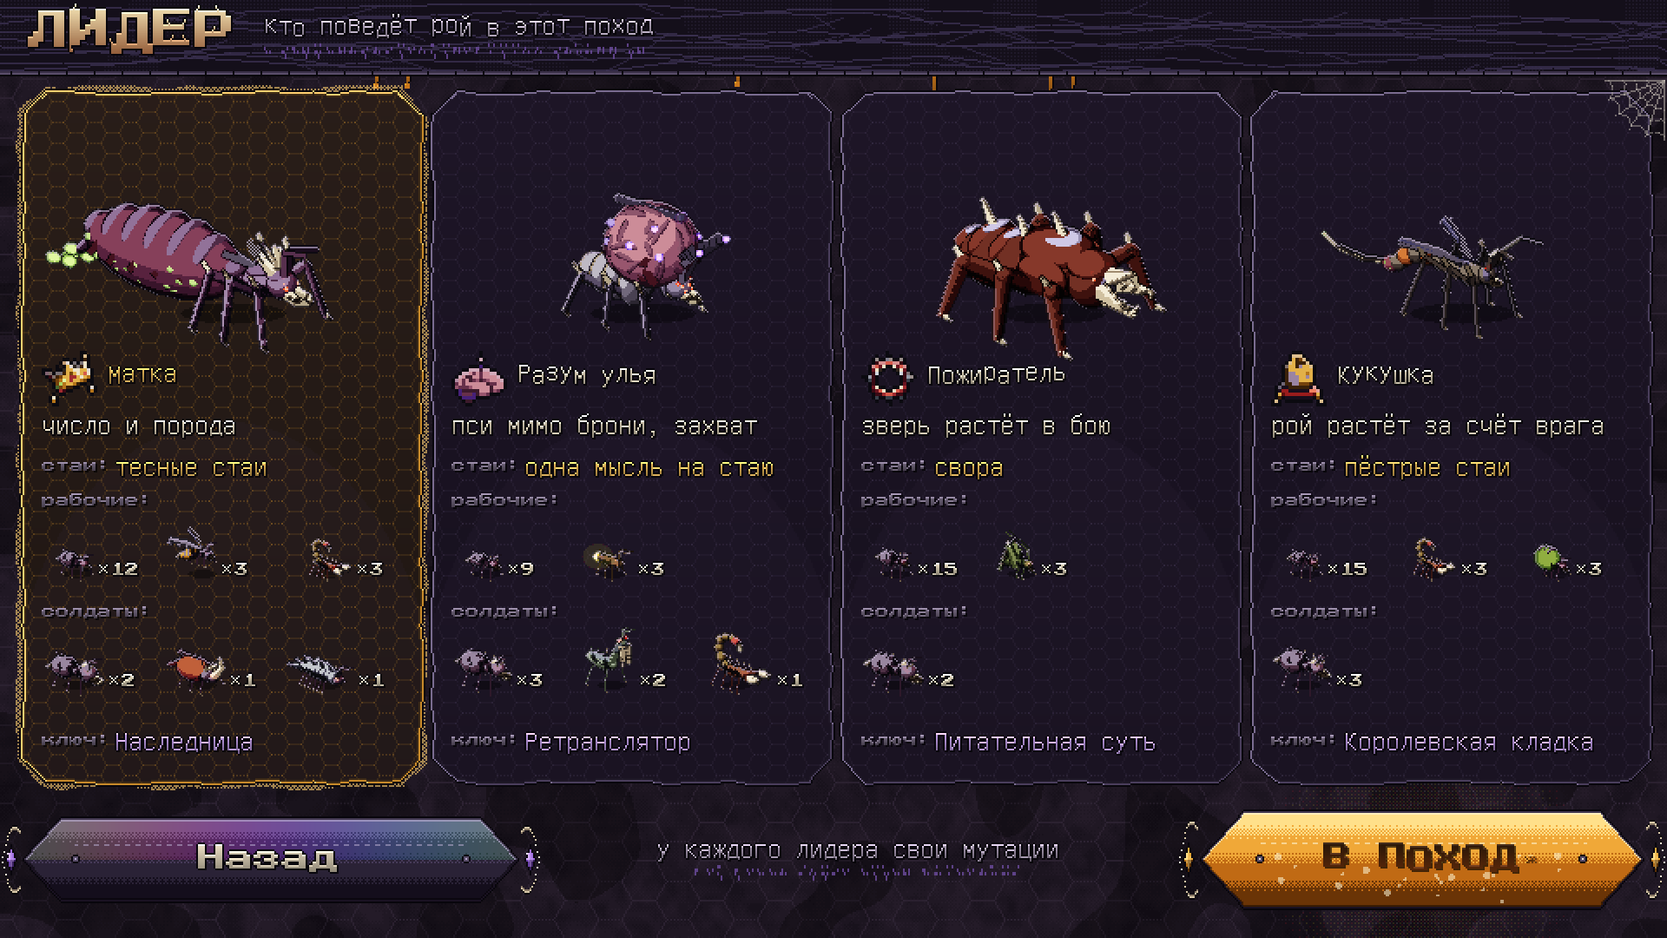
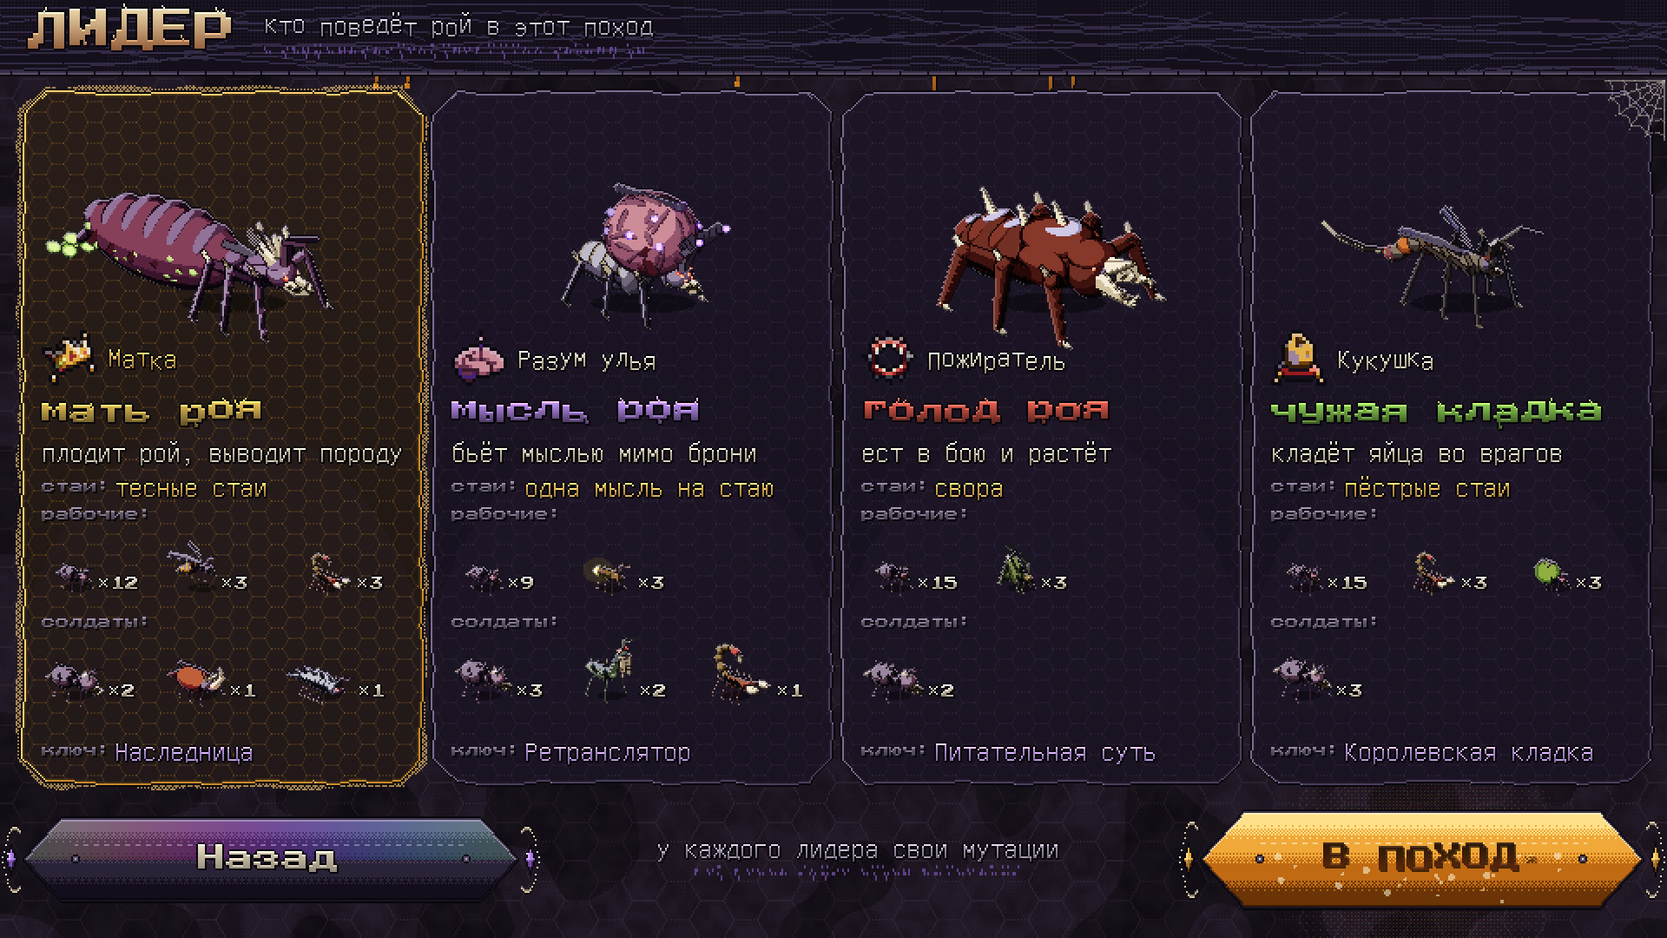
Прозвища лидеров роя стилизованным письмом; карточки Разума, Пожирателя и Кукушки; выбор лидера без сухих формулировок
Claude-Session: https://claude.ai/code/session_01Bh6a99SKMjjKSinDnrtssC

diff --git a/tools/sprites/swarm_hud.py b/tools/sprites/swarm_hud.py
@@ -61,9 +61,31 @@ def put(sc, spr, cx, by, sw=10):
     sc.blit(spr, int(cx - spr.ox), int(by - spr.oy))
 
 
-def title(sc, text, sub, x=16, seed=0):
-    """The screen's name in dripping, bristling letters, a line under it in the swarm's script."""
+EPITHET = {"Матка": ("мать роя", (240, 200, 90)), "Разум улья": ("мысль роя", (196, 150, 255)),
+           "Пожиратель": ("голод роя", (236, 96, 80)), "Кукушка": ("чужая кладка", (150, 220, 90))}
+
+
+def epithet(sc, text, x, y, col, seed=0, px=16, curls=True):
+    """A leader's by-name, written by the swarm itself: pixel letters in the leader's colour, dripping and
+    bristling, a curl of silk at each end."""
+    c2 = tuple(int(v * 0.42) for v in col)
+    w = letters(sc, text, x, y, "title", px, col=col, col2=c2, jitter=1, drips=4, hairs=5, seed=seed)
+    if curls:
+        hx = "#%02x%02x%02x" % tuple(int(v * 0.8) for v in col)
+        UI.silk(sc, (x - 24, y + px // 2 + 2), (x - 6, y + px // 2), sag=-6, col=hx)
+        UI.silk(sc, (x + w + 6, y + px // 2), (x + w + 24, y + px // 2 + 2), sag=-6, col=hx)
+        for cx in (x - 25, x + w + 24):
+            sc.rgb[int(y + px // 2 + 1):int(y + px // 2 + 4), int(cx):int(cx) + 2] = hexc(hx)
+    return w
+
+
+def title(sc, text, sub, x=16, seed=0, epi=None):
+    """The screen's name in dripping, bristling letters, a line under it in the swarm's script — or, for a leader,
+    its by-name written in its colour."""
     w = letters(sc, text, x, 6, "title", 24, col=(236, 216, 170), col2=(150, 96, 60), jitter=1, drips=6, hairs=9, seed=seed)
+    if epi:
+        epithet(sc, sub, x + w + 44, 10, epi, seed=seed + 1)
+        return w
     letters(sc, sub, x + w + 16, 6, "text", 16, col=(196, 182, 206), jitter=1, seed=seed + 1)
     scribble(sc, x + w + 16, 27, UI.text_width(sub) + 4, seed=seed + 2)
     return w
@@ -781,13 +803,13 @@ def leaders_pick():
     UI.drips(sc, 60, 900, 44, "#b06818", n=6, seed=18)
     title(sc, "ЛИДЕР", "кто поведёт рой в этот поход", seed=35)
     # start armies as in the concept (workers; soldiers), the flock rule, the key mutation of the leader's pool
-    data = [("Матка", "matka", "число и порода", "тесные стаи", "Наследница",
+    data = [("Матка", "matka", "плодит рой, выводит породу", "тесные стаи", "Наследница",
              [((), 12), (("wings",), 3), (("stinger",), 3)], [((), 2), (("horn",), 1), (("carapace",), 1)]),
-            ("Разум улья", "razum", "пси мимо брони, захват", "одна мысль на стаю", "Ретранслятор",
+            ("Разум улья", "razum", "бьёт мыслью мимо брони", "одна мысль на стаю", "Ретранслятор",
              [((), 9), (("firefly",), 3)], [((), 3), (("scythes",), 2), (("stinger",), 1)]),
-            ("Пожиратель", "pozh", "зверь растёт в бою", "свора", "Питательная суть",
+            ("Пожиратель", "pozh", "ест в бою и растёт", "свора", "Питательная суть",
              [((), 15), (("jumper",), 3)], [((), 2)]),
-            ("Кукушка", "kuk", "рой растёт за счёт врага", "пёстрые стаи", "Королевская кладка",
+            ("Кукушка", "kuk", "кладёт яйца во врагов", "пёстрые стаи", "Королевская кладка",
              [((), 15), (("stinger",), 3), (("acid",), 3)], [((), 3)])]
     PW_ = 232
     for k_, (name, ik, what, rule, key, army, soldiers) in enumerate(data):
@@ -795,13 +817,15 @@ def leaders_pick():
         UI.cell(sc, x0, 52, x0 + PW_, 452, "hi" if k_ == 0 else "normal")
         spr = SL.build(name, "idle", 1.0)
         kk = min(1.75, 172 / spr.w, 116 / spr.h)
-        put(sc, SL.build(name, "idle", kk), x0 + PW_ / 2 + 6, 180, 30)
-        icon(sc, ik, x0 + 12, 202, 2)
-        letters(sc, name, x0 + 50, 206, "text", 16, col=GOLD if k_ == 0 else INK, jitter=1, seed=k_)
-        letters(sc, what, x0 + 12, 236, "text", 16, col=INK)
-        letters(sc, "стаи:", x0 + 12, 264, "title", 8, col=PALE, outline=False)
-        letters(sc, rule, x0 + 54, 260, "text", 16, col=GOLD)
-        for r, (lab, row, sold, by) in enumerate((("рабочие:", army, False, 330), ("солдаты:", soldiers, True, 394))):
+        put(sc, SL.build(name, "idle", kk), x0 + PW_ / 2 + 6, 174, 30)
+        icon(sc, ik, x0 + 12, 190, 2)
+        letters(sc, name, x0 + 50, 198, "text", 16, col=GOLD if k_ == 0 else INK, jitter=1, seed=k_)
+        ep, ecol = EPITHET[name]
+        epithet(sc, ep, x0 + 12, 228, ecol, seed=k_ + 7, px=16, curls=False)
+        letters(sc, what, x0 + 12, 252, "text", 16, col=INK)
+        letters(sc, "стаи:", x0 + 12, 276, "title", 8, col=PALE, outline=False)
+        letters(sc, rule, x0 + 54, 272, "text", 16, col=GOLD)
+        for r, (lab, row, sold, by) in enumerate((("рабочие:", army, False, 338), ("солдаты:", soldiers, True, 400))):
             letters(sc, lab, x0 + 12, by - 46, "title", 8, col=PALE, outline=False)
             for j, (tr, n) in enumerate(row):
                 b_ = bug(tr, "idle", 1.0, 180 + j + k_ * 5 + r * 20, soldier=sold)
@@ -809,8 +833,8 @@ def leaders_pick():
                 put(sc, b_, cx, by, 8)
                 right = np.nonzero(b_.a.any(axis=0))[0].max()
                 letters(sc, f"×{n}", cx - b_.ox + right + 3, by - 6, "title", 8, col=INK)
-        letters(sc, "ключ:", x0 + 12, 422, "title", 8, col=PALE, outline=False)
-        letters(sc, key, x0 + 54, 418, "text", 16, col=(196, 160, 236))
+        letters(sc, "ключ:", x0 + 12, 428, "title", 8, col=PALE, outline=False)
+        letters(sc, key, x0 + 54, 424, "text", 16, col=(196, 160, 236))
     UI.button(sc, 12, 470, 300, 520, "chitin")
     letters(sc, "Назад", 156, 486, "title", 16, col=INK, align="center")
     UI.button(sc, 690, 466, 948, 524, "amber")
@@ -959,16 +983,18 @@ PICT = {"Брачный полёт": (pict_flight, "пару выбираешь 
 def leader_comb(sc, x0, y, rows, key, hover):
     """The leader's mutations as a comb: a row of cells per branch, the key one a big royal cell at the end."""
     r, step = 21, 21 * 1.732
-    pos = {}
+    off = max(UI.text_width(br) for br, _ in rows) + 16 + r
+    pos, right = {}, 0
     for j, (branch, cells) in enumerate(rows):
         cy = y + j * r * 1.5
         UI.rich(sc, branch, x0, cy - 8, "text", 16, col=MUTED)
         for i, (k_, st, nm, desc) in enumerate(cells):
-            cx = x0 + 88 + i * step + (step / 2 if j % 2 else 0)
+            cx = x0 + off + i * step + (step / 2 if j % 2 else 0)
             comb_cell(sc, cx, cy, r, "hover" if nm == hover else st, k_)
             pos[nm] = (cx, cy, nm, desc)
+            right = max(right, cx + r)
     k_, st, nm, desc = key
-    kx, ky = x0 + 88 + 4 * step + 12, y + r * 0.75
+    kx, ky = right + 40, y + r * 1.5 * (len(rows) - 1) / 2
     sc.glow(kx, ky, 40, hexc("#f0c050"), 0.25)
     comb_cell(sc, kx, ky, 30, st, k_)
     crown(sc, kx, ky - 30 - 13)
@@ -983,7 +1009,7 @@ def big_card(spec, name):
     sc = frame_screen(spec["seed"])
     UI.wing(sc, 0, 0, WW, 44)
     UI.drips(sc, 60, 900, 44, "#b06818", n=6, seed=spec["seed"])
-    title(sc, spec["title"], spec["sub"], seed=spec["seed"] + 1)
+    title(sc, spec["title"], spec["sub"], seed=spec["seed"] + 1, epi=spec.get("epi"))
     UI.plate(sc, 6, 50, WW - 6, HH - 6, antennae=False)
     # left: the creature large, where it came from
     UI.cell(sc, 18, 62, 300, 300, spec.get("cell", "hi"))
@@ -1043,6 +1069,7 @@ def big_card(spec, name):
         y += 10
         heading(sc, "МУТАЦИИ", x0, y, seed=6)
         pos, yb = leader_comb(sc, x0, y + 60, rows, key, hover)
+    if spec.get("comb") and hover:
         cx, cy, nm, desc = pos[hover]
         draw_pict, line = PICT[nm]
         ty0 = int(yb + 4)
@@ -1116,7 +1143,7 @@ def cards():
                    ("carapace", "класс", "Хитин", "Урон {руб} по ней в два раза меньше, {дроб} в два раза больше.", INK)]),
         "swarm_card.png")
     big_card(dict(
-        seed=57, title="МАТКА", sub="мать роя", cell="mut",
+        seed=57, title="МАТКА", sub=EPITHET["Матка"][0], epi=EPITHET["Матка"][1], cell="mut",
         sprite=leader("Матка", "idle", 1.45), dx=14, sw=56,
         facts=[("val", "развитие", "ещё не выбрано", MUTED),
                ("val", "на выбор", ["кладка чаще", "+1 личинка", "или +1 к размеру"], INK)],
@@ -1135,6 +1162,69 @@ def cards():
                    ("matka", "стаи роя", "Тесные стаи", "В одной клетке помещается до 6 мелких особей вместо 4. Удары по площади и растаптывание задевают их всех.", (214, 196, 150)),
                    ("fear", "слабость", "Медлительная", "Скорость 1. Если Матка погибнет, каждая особь роя проходит проверку страха 1–9.", RED)]),
         "swarm_card_leader.png")
+    PSI, MEAT, KUK, RULE = VIOLET, (236, 120, 96), (150, 220, 90), (214, 196, 150)
+    big_card(dict(
+        seed=61, title="РАЗУМ УЛЬЯ", sub=EPITHET["Разум улья"][0], epi=EPITHET["Разум улья"][1], cell="find",
+        sprite=leader("Разум улья", "idle", 2.6), dx=4, sw=46,
+        facts=[("val", "развитие", "ещё не выбрано", MUTED),
+               ("val", "на выбор", ["пси-удар на 4 клетки", "Захват раз в 4 хода", "или Помутнение на 3 клетки"], INK)],
+        stats=[("здоровье", "22"), ("броня", "0 · мягкое тело"), ("скорость", "1"), ("размер", "4")],
+        attacks=[("razum", "Пси-удар", "1–6", "{пси}", "3", "мимо брони, копит надлом")],
+        hover=None,
+        comb=([("Основа", [("m_psi_gland", "lived", "Пси-железа", "")]),
+               ("Безумие", [("m_psi_reson", "open", "Резонатор", ""), ("m_psi_dread", "sealed", "Чутьё на страх", "")]),
+               ("Ужас", [("m_psi_whisper", "sealed", "Жуткий шёпот", ""), ("m_strider", "sealed", "Стрекот", "")]),
+               ("Крик", [("m_psi_echo", "sealed", "Эхо крика", ""), ("m_psi_last", "sealed", "Последняя воля", "")]),
+               ("Кукловод", [("m_psi_leash", "sealed", "Пси-поводок", "")])],
+              ("m_psi_relay", "keysealed", "Ретранслятор", ""), None),
+        abilities=[("m_psi_reson", "каждые 3 хода", "Помутнение", "Враги в 2 клетках от самой плотной их группы на раунд путают цели и бьют своих. У машин сбой: шаг пропущен, способности молчат.", PSI),
+                   ("m_psi_echo", "постоянно", "Предсмертный крик", "Когда особь роя погибает, её убийца получает 1 {пси} мимо брони. Машина — 1 {пси} за каждые две смерти.", PSI),
+                   ("m_psi_leash", "раз в 6 ходов", "Захват разума", "Враг ниже половины здоровья переходит к рою: размер 1–3 на 5 ходов, 4–5 на 2 хода. Размер 6–7 только оглушает на раунд.", PSI),
+                   ("m_psi_gland", "правило похода", "Мыслящая порода", "В выводке выпадают мутации на {пси} и страх, чаще у потомков тех, кто стоял рядом с Разумом.", RULE),
+                   ("razum", "стаи роя", "Одна мысль на стаю", "Вся стая бьёт ту цель, на которую напала первая её особь.", RULE),
+                   ("fear", "слабость", "Хрупкий мозг", "Мягкое тело. Если Разум погибнет, каждая особь роя проходит проверку страха 1–9.", RED)]),
+        "swarm_card_razum.png")
+    big_card(dict(
+        seed=65, title="ПОЖИРАТЕЛЬ", sub=EPITHET["Пожиратель"][0], epi=EPITHET["Пожиратель"][1], cell="eat",
+        sprite=leader("Пожиратель", "idle", 2.1), dx=8, sw=56,
+        facts=[("val", "развитие", "ещё не выбрано", MUTED),
+               ("val", "на выбор", ["стартует крупнее", "растёт с каждого тела", "или лечится вдвое"], INK)],
+        stats=[("здоровье", "41"), ("броня", "2 · тяж. хитин"), ("скорость", "2"), ("размер", "5–7")],
+        attacks=[("pozh", "Пасть", "1–8 +2", "{руб}", "1", "")],
+        hover=None,
+        comb=([("Корм", [("m_sated", "lived", "Сытная", ""), ("m_bait", "sealed", "Приманка", ""),
+                         ("m_fattened", "sealed", "Откормленная", "")]),
+               ("Пир", [("m_frenzy", "open", "Кормовое безумие", ""), ("m_table", "sealed", "За столом", "")]),
+               ("Голод", [("m_hungry", "sealed", "Голодная", ""), ("m_devblood", "sealed", "Кровь Пожирателя", "")])],
+              ("m_essence", "keysealed", "Питательная суть", ""), None),
+        abilities=[("pozh", "каждые 2 тела", "Рост", "За каждые 2 съеденных тела, своих или чужих: здоровье ×1,4 и +2 к удару. До двух раз за бой, до размера 7.", MEAT),
+                   ("m_table", "постоянно", "Каннибал", "Ест погибших своих рядом так же, как чужих: лечится и растёт.", MEAT),
+                   ("biomass", "правило похода", "Всё в пасть", "Каждое съеденное им в бою тело — +1 биомасса после боя. Её можно отдать на его рост. Рой меньше.", RULE),
+                   ("m_frenzy", "стаи роя", "Свора", "Стаи бросаются туда же, куда он, и оставляют ему тела убитых. Сами особи пожиранием не лечатся.", RULE),
+                   ("m_hungry", "слабость", "Ненасытный", "Три раунда без еды: хватает самую мелкую свою особь рядом и съедает. Если рядом никого, теряет десятую часть здоровья за раунд.", RED)]),
+        "swarm_card_pozh.png")
+    big_card(dict(
+        seed=69, title="КУКУШКА", sub=EPITHET["Кукушка"][0], epi=EPITHET["Кукушка"][1], cell="new",
+        sprite=leader("Кукушка", "idle", 2.4), dx=6, sw=44,
+        facts=[("val", "развитие", "ещё не выбрано", MUTED),
+               ("val", "на выбор", ["личинок 3", "заражает и яд скорпионов", "или подкидышей двое"], INK)],
+        stats=[("здоровье", "12"), ("броня", "1 · хитин"), ("скорость", "2"), ("размер", "3")],
+        attacks=[("kuk", "Яйцеклад", "1–6", "{кол}", "2", "раньше всех; пробил броню — заражает")],
+        hover=None,
+        comb=([("Заражение", [("m_parasitoid", "lived", "Паразитоид", ""), ("m_bloodeggs", "sealed", "Яйца в крови", ""),
+                              ("m_spores", "open", "Споры", "")]),
+               ("Хозяин", [("m_call", "sealed", "Зов кладки", ""), ("m_bodyguard", "sealed", "Телохранитель", ""),
+                           ("m_gnaw", "sealed", "Прожорливая кладка", "")]),
+               ("Мутации", [("m_mutagen", "sealed", "Мутагенная кладка", ""), ("m_unstable", "open", "Нестабильная", "")])],
+              ("m_royal", "keysealed", "Королевская кладка", ""), None),
+        abilities=[("m_parasitoid", "атака", "Заражение", "Пробил броню — цель заражена. Живой, погибнув, выпускает 2 личинки. В машине кладка зреет в топке: каждые 3 хода личинка, сломанная выпускает ещё 2.", KUK),
+                   ("kuk", "постоянно", "Длинный яйцеклад", "Колет на 2 клетки, инициатива +3: бьёт раньше всех.", KUK),
+                   ("ant", "в начале боя", "Подкидыш", "Одна рабочая начинает бой в тылу врага.", KUK),
+                   ("hand", "постоянно", "Дети хозяина", "Личинка из заражённого берёт черту хозяина: у человека руку, у голема железный панцирь, у нежити чужие кости. Дожившие до конца боя уходят в выводок химерами.", KUK),
+                   ("m_mutagen", "правило похода", "Чужие черты", "Чужие черты выпадают чаще и сильнее, у особи их может быть две.", RULE),
+                   ("m_call", "стаи роя", "Пёстрые стаи", "В одну стаю можно ставить разные виды. Пары в выводке складываются и внутри стаи.", RULE),
+                   ("fear", "слабость", "Хрупкая кладка", "{огонь} выжигает кладку: заражённый, получив {огонь}, даже свой, очищается.", RED)]),
+        "swarm_card_kuk.png")
 
 
 # ---------------------------------------------------------------- the leaders on the field: all the battle shows of them

diff --git a/docs/CONCEPT.md b/docs/CONCEPT.md
@@ -1038,6 +1038,9 @@
 
 ![Выбор лидера роя](images/swarm_leader_pick.png)
 
+В игре у лидера есть прозвище: Матка — «мать роя», Разум улья — «мысль роя», Пожиратель — «голод роя»,
+Кукушка — «чужая кладка». Оно стоит рядом с именем в карточке и на экране выбора.
+
 В бою о лидере говорит само поле: здоровье над ним, способность всплывает иконкой, у Пожирателя —
 ступени роста и голод, у Кукушки — сколько зреть кладке в машине; погиб лидер — над роем значки страха.
 
